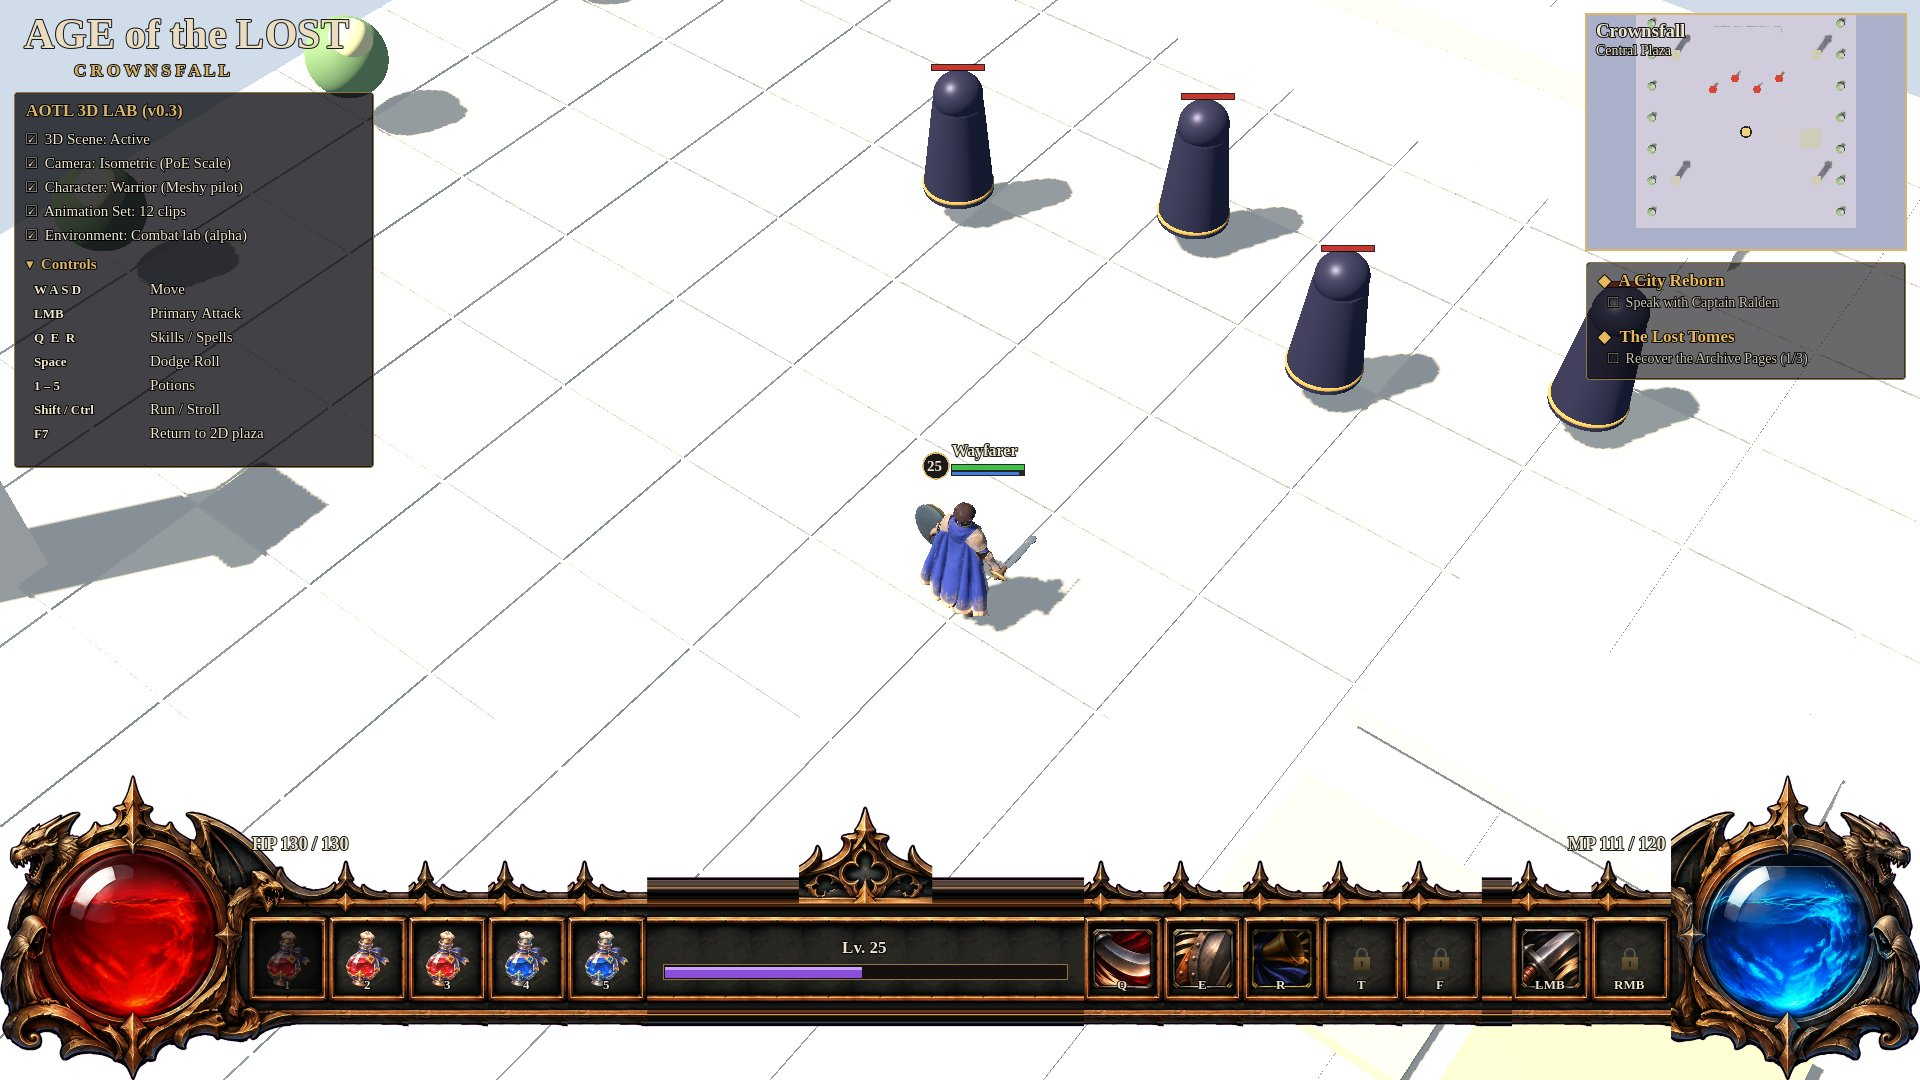
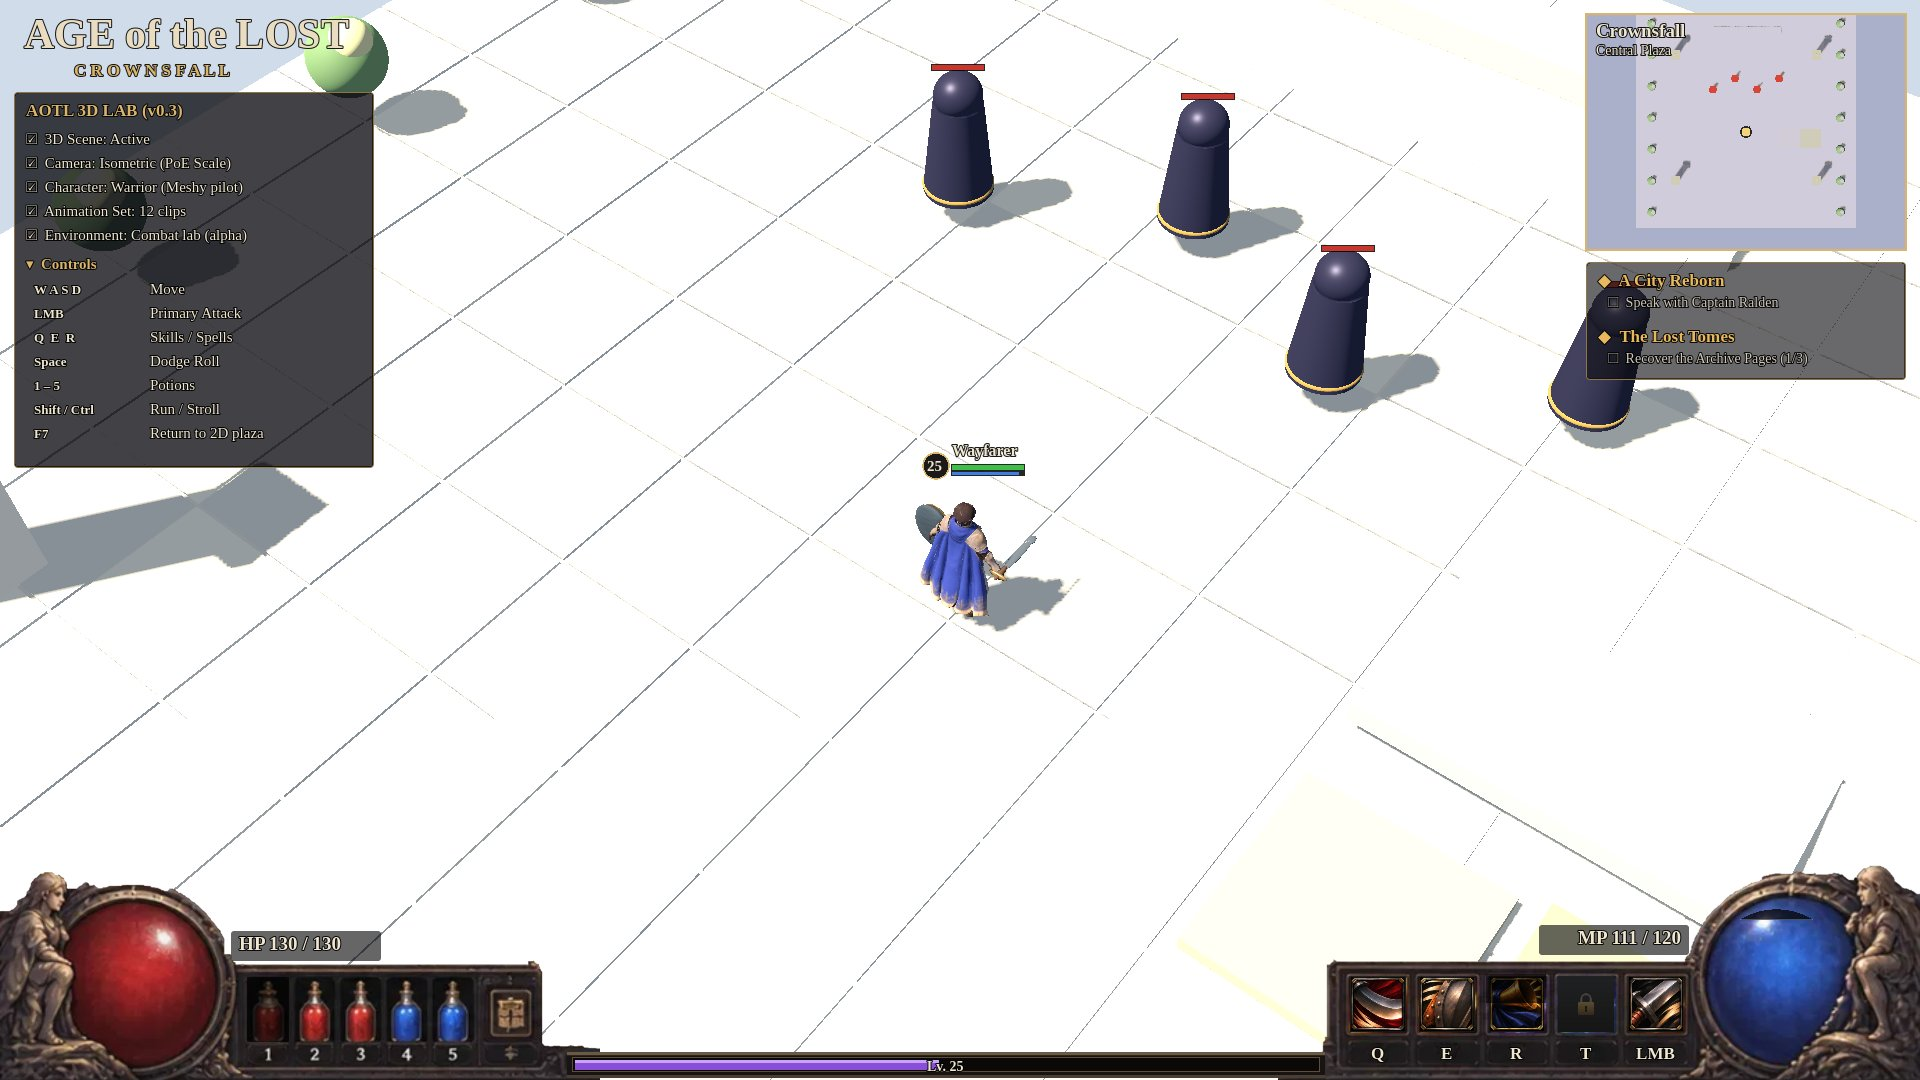
ARPG HUD: owner's mockup artwork, statues + orbs flush to both corners
Bottom HUD rebuilt from the owner's mockup close-ups: statue + life orb +
potion belt flush bottom-left, skill panel + mana orb + statue flush
bottom-right, bronze XP strip joining them along the bottom edge. Pieces
cut with OpenCV GrabCut (tools/cut_hud_mockup.py); baked icons and key
letters blanked so live icons, cooldowns and HP/MP values draw on top.
Tests: arpg_hud 40/40, mage 83/83, regression 994/994.

Claude-Session: https://claude.ai/code/session_01HXUneWBipxvB69FSMXEcEC

Changed region(s): [[0.0, 0.7333, 1.0, 1.0]]

diff --git a/game/crownsfall_lootslice/tools/cut_hud_mockup.py b/game/crownsfall_lootslice/tools/cut_hud_mockup.py
@@ -1,0 +1,34 @@
+import cv2, numpy as np
+U='/root/.claude/uploads/7d006b6b-5ba6-59a7-960e-a8220b91ea7c/'
+def cut(src, crop, fg_circles, fg_rects, bg_rects, out, prob_rect):
+    im=cv2.imread(U+src); x0,y0,x1,y1=crop; im=im[y0:y1,x0:x1].copy()
+    h,w=im.shape[:2]
+    mask=np.full((h,w),cv2.GC_BGD,np.uint8)
+    px0,py0,px1,py1=[v-o for v,o in zip(prob_rect,(x0,y0,x0,y0))]
+    mask[py0:py1,px0:px1]=cv2.GC_PR_FGD
+    for (cx,cy,r) in fg_circles: cv2.circle(mask,(cx-x0,cy-y0),r,cv2.GC_FGD,-1)
+    for (a,b,c,d) in fg_rects: mask[b-y0:d-y0,a-x0:c-x0]=cv2.GC_FGD
+    for (a,b,c,d) in bg_rects: mask[max(0,b-y0):d-y0,max(0,a-x0):c-x0]=cv2.GC_BGD
+    bgd=np.zeros((1,65),np.float64); fgd=np.zeros((1,65),np.float64)
+    cv2.grabCut(im,mask,None,bgd,fgd,8,cv2.GC_INIT_WITH_MASK)
+    m=np.where((mask==cv2.GC_FGD)|(mask==cv2.GC_PR_FGD),255,0).astype(np.uint8)
+    # keep largest component, close small holes, soften edge
+    n,lab,st,_=cv2.connectedComponentsWithStats(m)
+    if n>1:
+        k=1+np.argmax(st[1:,cv2.CC_STAT_AREA]); m=np.where(lab==k,255,0).astype(np.uint8)
+    m=cv2.morphologyEx(m,cv2.MORPH_CLOSE,np.ones((7,7),np.uint8))
+    m=cv2.GaussianBlur(m,(3,3),0)
+    rgba=cv2.cvtColor(im,cv2.COLOR_BGR2BGRA); rgba[...,3]=m
+    cv2.imwrite(out,rgba); return im
+# LEFT: statue + orb + potion belt (+ start of the XP housing)
+cut('901b1cb0-image.jpg',(0,95,1284,560),
+    fg_circles=[(315,340,184),(112,150,26),(118,175,22)],
+    fg_rects=[(505,312,1150,555),(1165,500,1284,555),(60,300,200,520),(55,195,150,300),(25,230,70,420),(85,175,140,215)],
+    bg_rects=[(0,95,1284,105),(480,95,1284,290),(1160,95,1284,395),(1250,400,1284,490),(200,95,330,120)],
+    out='left_cut.png', prob_rect=(0,100,1284,560))
+# RIGHT: skill panel + orb + statue (+ end of the XP housing)
+cut('848d332e-image.jpg',(0,170,1284,612),
+    fg_circles=[(995,405,160)],
+    fg_rects=[(110,375,825,605),(0,565,95,605),(1170,250,1260,520)],
+    bg_rects=[(0,170,1284,180),(0,170,820,355),(0,360,90,555),(820,170,900,215),(1270,170,1284,190)],
+    out='right_cut.png', prob_rect=(0,175,1284,612))

diff --git a/game/crownsfall_lootslice/docs/ARPG_HUD_QA_2026-11-20.md b/game/crownsfall_lootslice/docs/ARPG_HUD_QA_2026-11-20.md
@@ -39,3 +39,17 @@ Not yet: the lab is still a white test floor, not the Crownsfall plaza of the mo
 - The frame's painted orbs are darkened from the top as HP/MP drop (circular-segment shade + surface line).
 - Camera: measured hero height **100 px** at 1080p (knight standing, head_end 1.69 m) with the existing pilot camera.
 - Tests: `verify_arpg_hud.gd` 40/40 (adds anchoring, full-width, bottom-edge, corner-orb and socket-count checks).
+
+## Revision 3 (owner: "It needs to look like this, even use these graphics and assets")
+- The bottom HUD now uses the owner's mockup artwork itself: `hud_left.png` (seated statue, life orb, potion belt
+  with numbered wells and the chest slot) and `hud_right.png` (skill panel, mana orb, statue), cut from the owner's
+  close-ups with OpenCV GrabCut (`tools/cut_hud_mockup.py`; sources in `art/references/2026-11-20/hud_mockup/`).
+  The baked skill icons and Q W E R T letters were blanked so live icons, cooldowns and key labels draw on top;
+  the baked "HP 3,420" / "MP 1,280" text lies outside the cut and is replaced by live values on dark plates.
+- Left piece flush to the left and bottom edges, right piece flush to the right and bottom edges, a bronze XP strip
+  ("Lv. 25", purple fill) joins them along the bottom: no gap edge to edge. Scales with screen height.
+- Skill wells: Q Lance, E Nova, R Judgment, T locked, LMB Bolt (Mage); Q Cleave, E Dash, R Cast, T locked, LMB Slash
+  (Warrior). W stays movement.
+- Source resolution: the close-ups are phone screenshots (~2.2x the 1080p size), so the pieces are slightly soft;
+  a clean high-res redraw of the same design is the upgrade path.
+- Tests: `verify_arpg_hud.gd` 40/40 (flush-edge, joined-strip, equal-orb and well-count checks); regression 994/994.

diff --git a/game/crownsfall_lootslice/assets/ui/arpg_hud/README.md b/game/crownsfall_lootslice/assets/ui/arpg_hud/README.md
@@ -3,3 +3,5 @@ Copied from the 2D Crownfall HUD (`crownfall/assets/ui`, branch `claude/import-c
 owner-approved art, no generation. `potion_mana.png` is `potion.png` with the red liquid recoloured blue (PIL).
 Layout follows the owner's HUD mockup ("AOTL 2.5D LAB v0.2", 2026-11-20; see `art/references/2026-11-20/README.md`).
 hud_frame.png / hud_frame.json: the 2D game's edge-to-edge bottom frame (same source).
+hud_left.png / hud_right.png / hud_mockup.json: cut from the owner's HUD mockup close-ups (2026-11-20) with
+tools/cut_hud_mockup.py (OpenCV GrabCut); baked skill icons and key letters blanked; slot map in source pixels.
